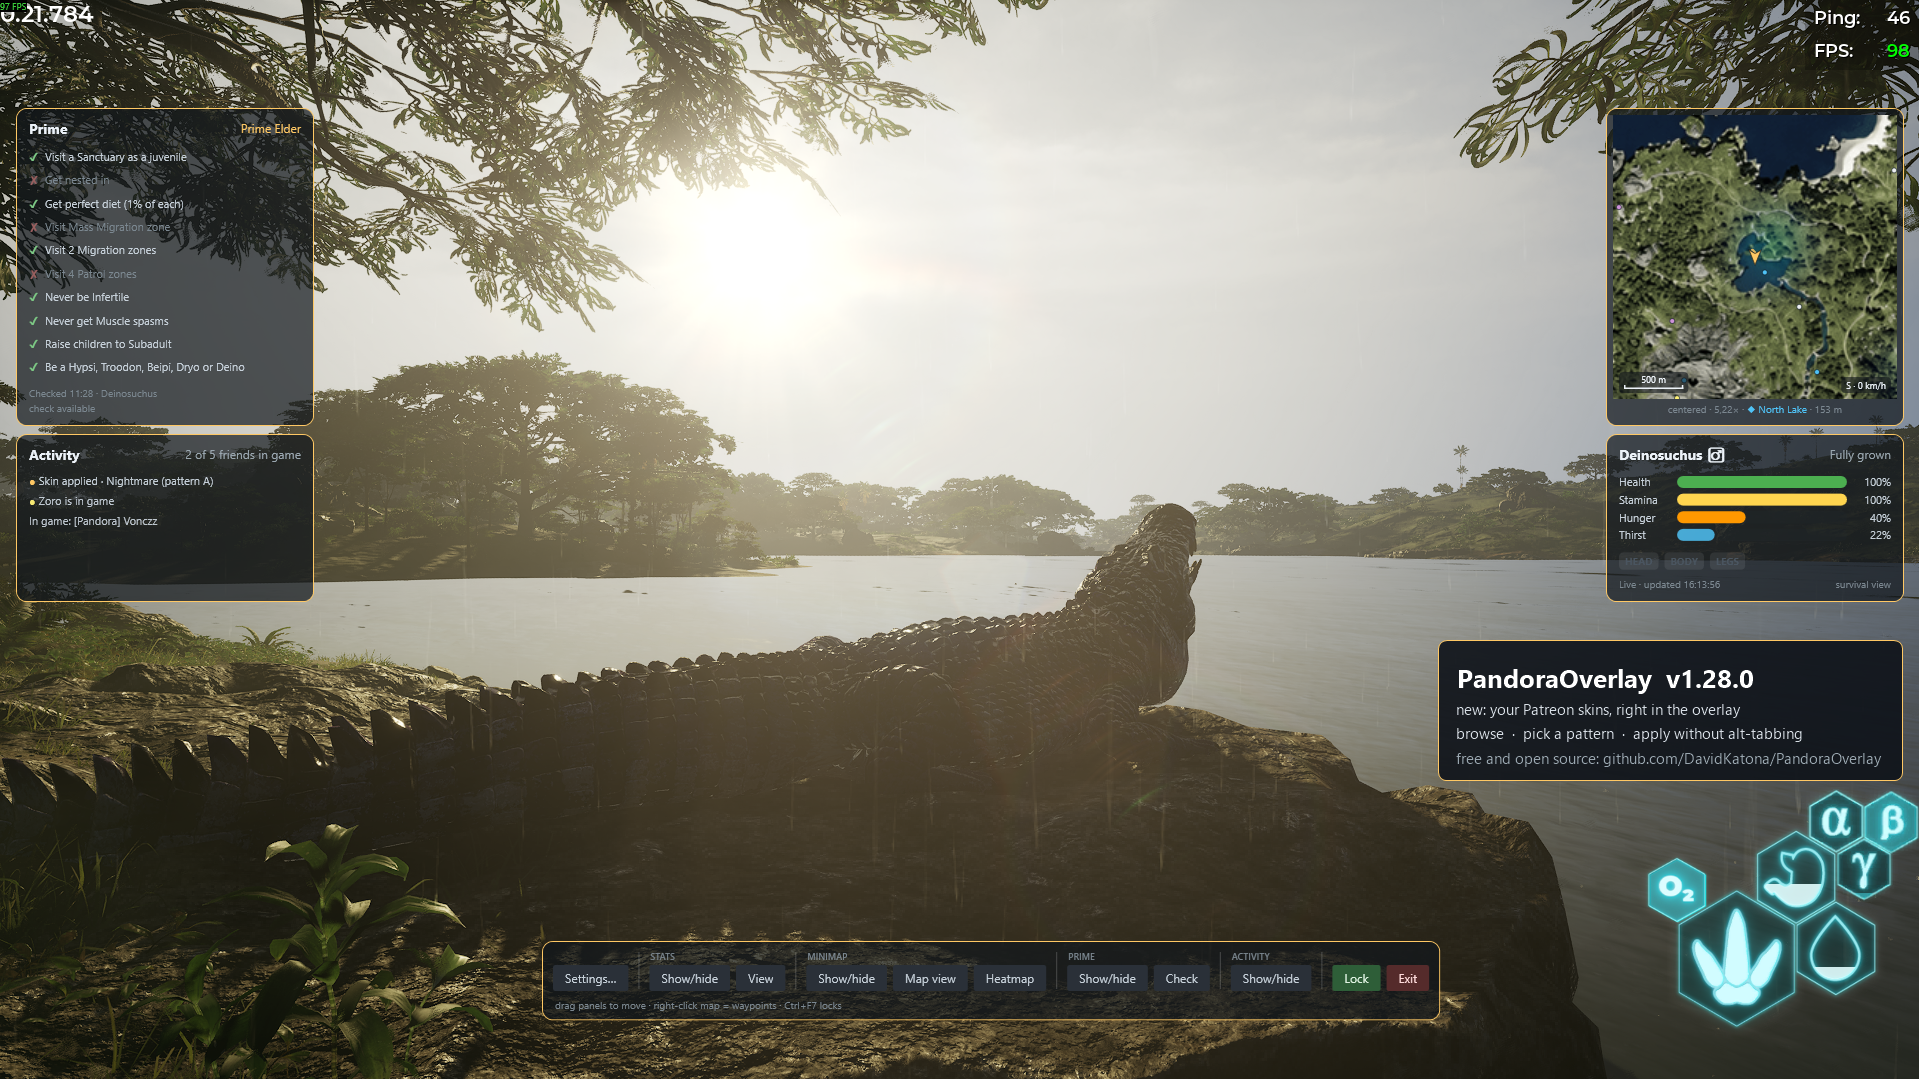
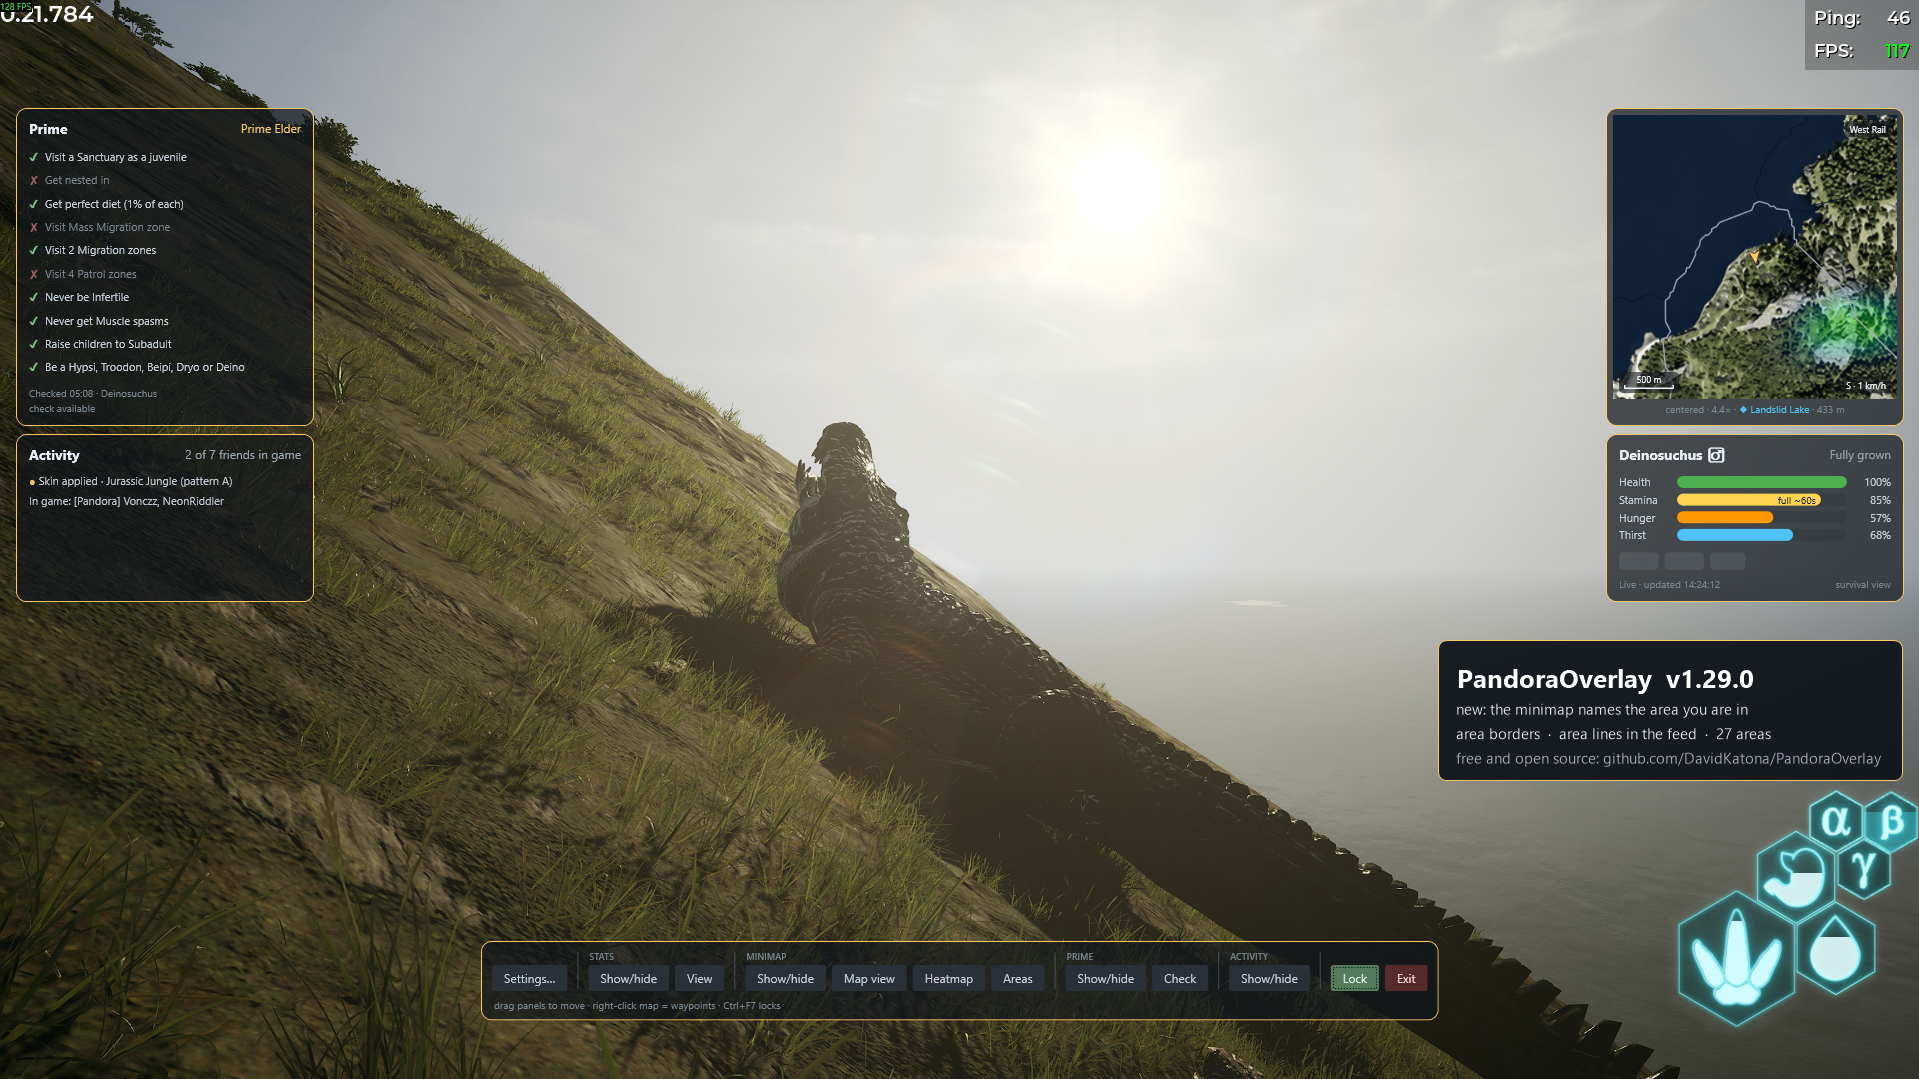
README: hero screenshot for 1.29.0 (the area pill and borders on the minimap)

diff --git a/README.md b/README.md
@@ -9,7 +9,7 @@ It is **fully external**: everything it does goes through the same logged-in HTT
 [![Downloads](https://img.shields.io/github/downloads/DavidKatona/PandoraOverlay/total)](https://github.com/DavidKatona/PandoraOverlay/releases)
 [![License: MIT](https://img.shields.io/github/license/DavidKatona/PandoraOverlay)](LICENSE)
 
-![The overlay in-game, in edit mode, in the default two-column layout: the Prime tracker and the Activity feed top-left, the player-centered minimap and the stats panel in its Survival view top-right, and the control panel bottom-center, over a Deinosuchus resting on a rock by a sunlit lake; the Activity feed's newest line reads "Skin applied · Nightmare (pattern A)", and a caption box names version 1.28.0 and its new Patreon skins page: browse, pick a pattern, apply without alt-tabbing](docs/screenshot.png)
+![The overlay in-game, in edit mode, in the default two-column layout: the Prime tracker and the Activity feed top-left, the player-centered minimap and the stats panel in its Survival view top-right, and the control panel bottom-center, over a Deinosuchus climbing a grassy slope above a hazy sea; the minimap's top-right pill names the area, "West Rail", with the area borders drawn and the player's own area outlined in a light line, and a caption box names version 1.29.0 and what is new: the minimap names the area you are in, area borders, area lines in the feed, 27 areas](docs/screenshot.png)
 
 ## Contents
 
